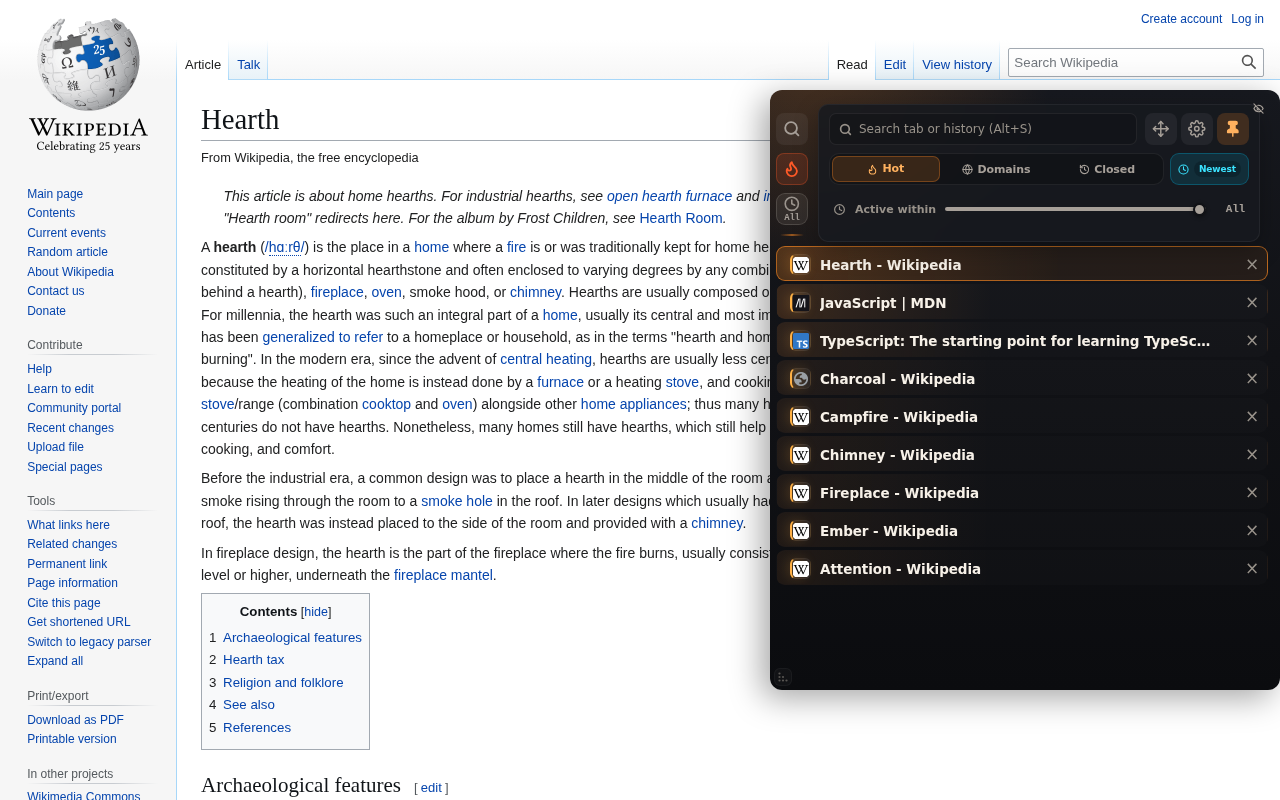
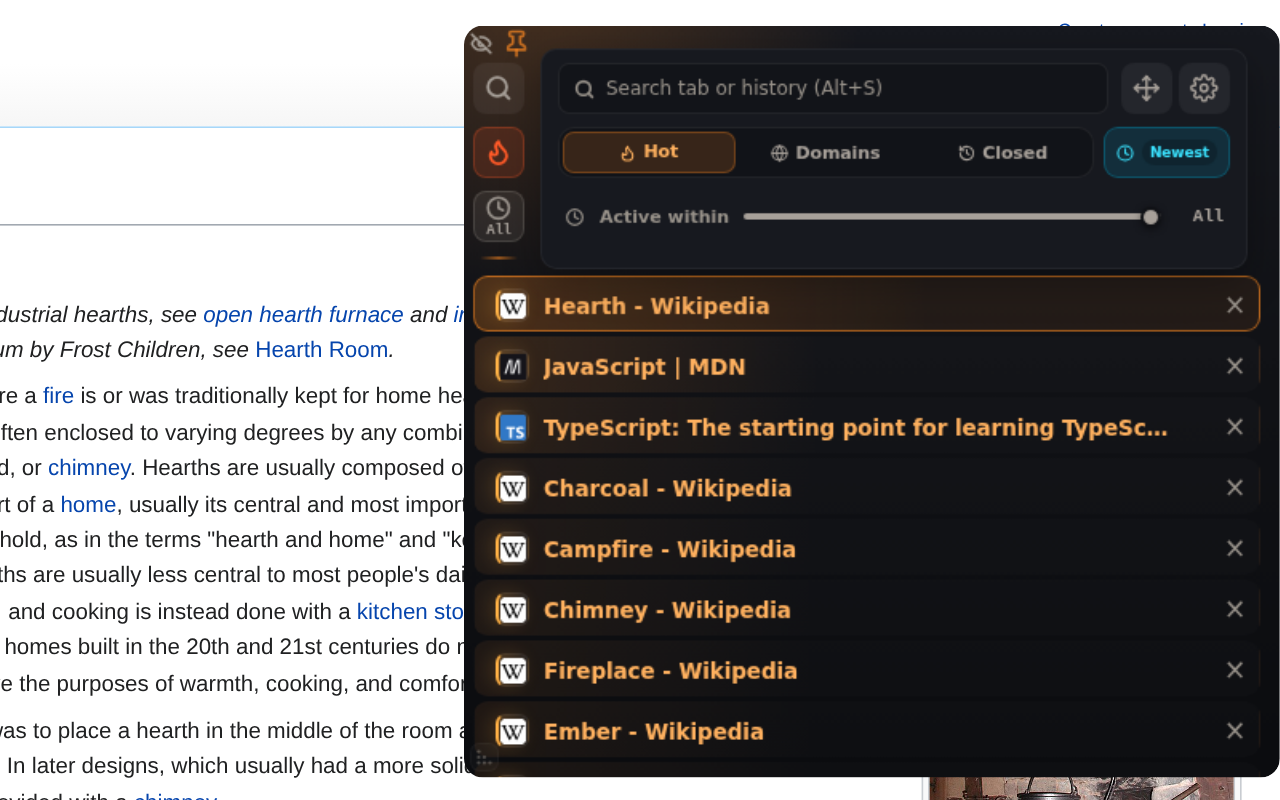
0.5.0: the pinned strip's wave and ring, zoomed screenshots
Landing page and README gain the three-state pin, the wave and the pinned
ring, with two new shots; all shots are now zoomed on the panel. Changelog
regenerated from CHANGELOG.md (0.4.7, 0.4.8, 0.5.0). Structured data:
softwareVersion 0.5.0 and the new screenshots.

diff --git a/changelog.html b/changelog.html
@@ -38,6 +38,12 @@
     <h1>Changelog</h1>
     <p>What changed in each version, newest first.</p>
     <p>vatra <a href="https://chromewebstore.google.com/detail/lcnmjfcejdglgmppnhhfmgkakjbeljdh">on the Chrome Web Store</a></p>
+    <h2>0.5.0 — October 2026</h2>
+    <ul><li><strong>The pin has three clear states</strong>: off, the open panel, or the strip. Its icon fills like a bottle — empty, half, full — so you can tell at a glance.</li><li><strong>With the strip pinned, hovering a tab shows a wave</strong>: that tab&#x27;s title, large, in the middle, with its two neighbours on each side getting smaller. Click any of them to switch.</li><li><strong>Pinned tabs ring the first one</strong> in the strip. Hover and they open into a half-circle beside it.</li><li>The strip <strong>scrolls</strong> when more tabs are open than fit, and follows the tab you&#x27;re on.</li><li>Small pinned icons show unread and call alerts as a coloured edge.</li><li>On the pinned strip, Tab onto a tab shows its wave; middle click on a card closes that tab.</li><li><strong>New tab</strong>: a + at the end of the tab list.</li><li>Hide and pin sit together at the top of the strip, in the same place in every view, with their own colours.</li><li>Smoother, softer hover motion.</li><li>Clearer strip icons in the light theme; tab titles and icon edges follow the colour theme.</li><li>No more tooltips over tabs.</li><li>Fixed: the panel and strip folded away when the pointer overshot into the screen edge.</li><li>Fixed: the bottom of the strip&#x27;s icons was cut off, and its outline was missing an edge.</li><li>Fixed: with the strip pinned, hovering it threw it into the middle of the screen.</li><li>The panel starts faster — it no longer loads your tabs several times over.</li></ul>
+    <h2>0.4.8 — September 2026</h2>
+    <ul><li>A <strong>+</strong> at the foot of the strip opens a new tab, in the strip and the full panel alike.</li><li><strong>Pin now holds one of three things</strong>: nothing, the whole panel, or just the strip. Click it to cycle.</li><li><strong>With the strip pinned, hovering an entry slides out only that row</strong> — a tab, the search box, the view switch or the time window — so you can read it without opening the panel.</li></ul>
+    <h2>0.4.7 — August 2026</h2>
+    <ul><li>Slack tabs now show a dot when something is waiting. Slack puts no number in its tab title, only a marker, so a dot is what it can honestly say.</li></ul>
     <h2>0.4.6 — August 2026</h2>
     <ul><li>Reaching the docked screen edge opens the panel — no need to land on the thin strip.</li><li>Unread counts in a tab&#x27;s title now show as a badge, so pinned tabs stop hiding the number you pinned them for.</li><li>A tab sitting in a video call gets a dot and a running clock.</li><li>A live strip above the pinned dock shows what&#x27;s active right now. Settings → Signals turns it off.</li><li>Fixed: the panel sometimes ignored you when you reached for it.</li><li>Fixed: a console error after an update.</li></ul>
     <h2>0.4.5 — August 2026</h2>

diff --git a/index.html b/index.html
@@ -46,12 +46,14 @@
   "applicationCategory": "BrowserApplication",
   "operatingSystem": "Chrome",
   "browserRequirements": "Requires Chrome 116 or later",
-  "softwareVersion": "0.4.2",
+  "softwareVersion": "0.5.0",
   "image": "https://vyshni-labs.github.io/vatra-tab-manager/assets/og-cover.png",
   "screenshot": [
     "https://vyshni-labs.github.io/vatra-tab-manager/assets/shot1-panel.png",
     "https://vyshni-labs.github.io/vatra-tab-manager/assets/shot2-search.png",
-    "https://vyshni-labs.github.io/vatra-tab-manager/assets/shot3-domains.png"
+    "https://vyshni-labs.github.io/vatra-tab-manager/assets/shot3-domains.png",
+    "https://vyshni-labs.github.io/vatra-tab-manager/assets/shot4-wave.png",
+    "https://vyshni-labs.github.io/vatra-tab-manager/assets/shot5-ring.png"
   ],
   "offers": {
     "@type": "Offer",
@@ -106,6 +108,12 @@
             <strong>Hover or <kbd>Alt+S</kbd>.</strong> The panel sits collapsed
             at the edge of the page as a thin strip. Hover it, or hit the
             shortcut, and it slides out with the search box focused.
+          </li>
+          <li>
+            <strong>Pin the panel, or just the strip.</strong> The pin fills
+            like a bottle — empty, half, full. With the strip pinned, hovering a
+            tab fans it and its neighbours out as a wave of titles beside the
+            strip, and your pinned tabs ring the first one.
           </li>
           <li>
             <strong>Search tabs and history together.</strong> Type; open tabs
@@ -168,6 +176,28 @@
         height="800"
       />
       <figcaption>Domains view — tabs collected by site, reorderable.</figcaption>
+    </figure>
+
+    <figure>
+      <img
+        src="assets/shot4-wave.png"
+        alt="The pinned strip at the edge of a page: hovering the TypeScript tab shows its title large, with two neighbouring tabs above and below it as smaller cards"
+        width="1280"
+        height="800"
+        loading="lazy"
+      />
+      <figcaption>The pinned strip — hover a tab and it rises out of the strip with its neighbours.</figcaption>
+    </figure>
+
+    <figure>
+      <img
+        src="assets/shot5-ring.png"
+        alt="Pinned tabs opened into a half-ring around the first pinned tab beside the strip, with the hovered tab's title in a card"
+        width="1280"
+        height="800"
+        loading="lazy"
+      />
+      <figcaption>Pinned tabs ring the first one, and open into a half-circle on hover.</figcaption>
     </figure>
 
     <h2>Install</h2>

diff --git a/README.md b/README.md
@@ -60,7 +60,26 @@ side bars — or Alt+arrow — to reorder.
 
 A thin strip rests at the edge of the page and expands on direct hover, or on
 the scrollbar beside it. **Alt+S** opens it anywhere with search already
-focused. Prefer Chrome's built-in sidebar? Switch in Settings → Panel type.
+focused. The strip scrolls when more tabs are open than fit, and follows the
+tab you're on. Prefer Chrome's built-in sidebar? Switch in Settings → Panel
+type.
+
+### Pin what you want to keep in view
+
+The pin cycles through three states, and its icon fills like a bottle to say
+which: empty — nothing pinned; half — the strip stays; full — the open panel
+stays.
+
+With the strip pinned, hovering a tab shows a wave beside it: that tab's title
+large in the middle, its two neighbours on each side smaller. Click any of them
+to switch. The panel never opens out from under you.
+
+![The pinned strip: hovering a tab shows it and its neighbours as a wave](assets/shot4-wave.png)
+
+Pinned tabs ring the first one — small at rest, opening into a half-circle
+when you hover, each with its title.
+
+![Pinned tabs opened into a ring beside the strip](assets/shot5-ring.png)
 
 ### Let cold tabs sleep
 
